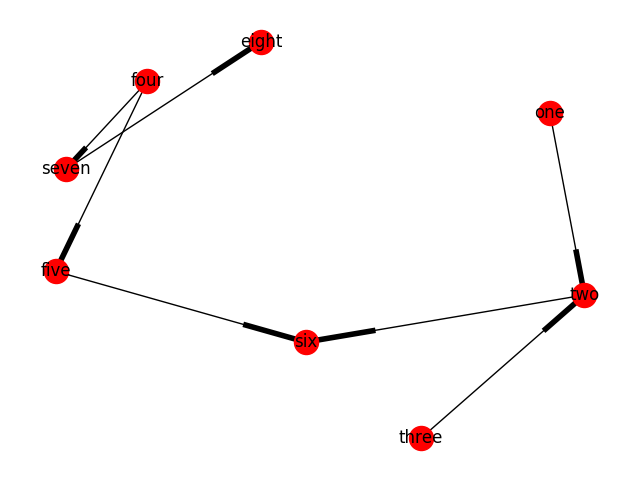
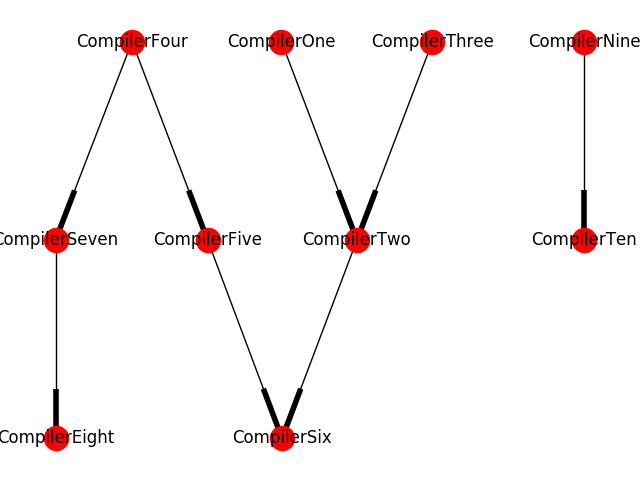
finish demonstration

diff --git a/graph_practice.py b/graph_practice.py
@@ -4,103 +4,103 @@ from networkx.drawing.nx_agraph import graphviz_layout
 
 
 class Compiler:
-    name = None
 
     def find_predecessors(self, graph):
-        return graph.predecessors(self.name)
+        return graph.predecessors(self)
 
     def find_sucessors(self, graph):
-        return graph.successors(self.name)
+        return graph.successors(self)
+
+    def compile(self):
+        print('compiled {}'.format(self.__class__.__name__))
 
 
 class CompilerOne(Compiler):
-    name = 'one'
-
-    def __init__(self):
-        self.requirements = []
+    @staticmethod
+    def requirements():
+        return []
 
 
 class CompilerTwo(Compiler):
-    name = 'two'
-
-    def __init__(self):
-        self.requirements = [CompilerOne, CompilerThree]
+    @staticmethod
+    def requirements():
+        return [CompilerOne, CompilerThree]
 
 
 class CompilerThree(Compiler):
-    name = 'three'
-
-    def __init__(self):
-        self.requirements = []
+    @staticmethod
+    def requirements():
+        return []
 
 
 class CompilerFour(Compiler):
-    name = 'four'
-
-    def __init__(self):
-        self.requirements = []
+    @staticmethod
+    def requirements():
+        return []
 
 
 class CompilerFive(Compiler):
-    name = 'five'
-
-    def __init__(self):
-        self.requirements = [CompilerFour]
+    @staticmethod
+    def requirements():
+        return [CompilerFour]
 
 
 class CompilerSix(Compiler):
-    name = 'six'
-
-    def __init__(self):
-        self.requirements = [CompilerTwo, CompilerFive]
+    @staticmethod
+    def requirements():
+        return [CompilerTwo, CompilerFive]
 
 
 class CompilerSeven(Compiler):
-    name = 'seven'
-
-    def __init__(self):
-        self.requirements = [CompilerFour]
+    @staticmethod
+    def requirements():
+        return [CompilerFour]
 
 
 class CompilerEight(Compiler):
-    name = 'eight'
-
-    def __init__(self):
-        self.requirements = [CompilerSeven]
+    @staticmethod
+    def requirements():
+        return [CompilerSeven]
 
 
 class CompilerNine(Compiler):
-    name = 'nine'
-
-    def __init__(self):
-        self.requirements = []
+    @staticmethod
+    def requirements():
+        return []
 
 
 class CompilerTen(Compiler):
-    name = 'ten'
+    @staticmethod
+    def requirements():
+        return [CompilerNine]
 
-    def __init__(self):
-        self.requirements = [CompilerNine]
 
-
-class Compile:
-    def __init__(self, field, graph):
-        self.field = field
+class CompileManager:
+    def __init__(self, fields, graph):
+        self.fields = fields
         self.graph = graph
 
-    def find_successors_tree(self):
-        return nx.algorithms.dfs_successors(self.graph, self.field)
+    # def find_successors_tree(self):
+    #     return nx.algorithms.dfs_successors(self.graph, self.field)
 
-    def find_subgraph_nodes(self):
+    def find_subgraph_nodes(self, field):
         sub_graphs = [x for x in nx.weakly_connected_components(self.graph)]
         for graph in sub_graphs:
-            if self.field in graph:
+            if field in graph:
                 return graph
         return None
 
     def sort_subgraph_nodes(self):
-        nodes = self.find_subgraph_nodes()
-        return nx.topological_sort(graph, nbunch=nodes)
+        recompile_nodes = set()
+        # Todo: optimisation here: if node already in set then assume entire sub-graph is
+        for field in self.fields:
+            nodes = self.find_subgraph_nodes(field)
+            recompile_nodes.update(nodes)
+        return nx.topological_sort(graph, nbunch=recompile_nodes)
+
+    def compile(self):
+        for node in self.sort_subgraph_nodes():
+            node().compile()
 
 
 def create_graph(compilers):
@@ -108,35 +108,36 @@ def create_graph(compilers):
     G = nx.DiGraph()
     # add nodes
 
-    for comp in compilers:
+    for compiler in compilers:
         # G.add_node(comp)
-        for requirement in comp.requirements:
-            G.add_edge(requirement.name, comp.name)
+        for requirement in compiler.requirements():
+            G.add_edge(requirement, compiler)
     return G
 
-compiler_mapping = dict(
-    comp1 = CompilerOne(),
-    comp2 = CompilerTwo(),
-    comp3 = CompilerThree(),
-    comp4 = CompilerFour(),
-    comp5 = CompilerFive(),
-    comp6 = CompilerSix(),
-    comp7 = CompilerSeven(),
-    comp8 = CompilerEight(),
-    comp9 = CompilerNine(),
-    comp10 = CompilerTen()
-)
-compilers = compiler_mapping.values()
+compilers = [
+    CompilerOne,
+    CompilerTwo,
+    CompilerThree,
+    CompilerFour,
+    CompilerFive,
+    CompilerSix,
+    CompilerSeven,
+    CompilerEight,
+    CompilerNine,
+    CompilerTen
+]
+
 
 graph = create_graph(compilers)
-compile_field = Compile(compiler_mapping['comp2'].name, graph)
+compile_field = CompileManager([CompilerOne], graph)
+compile_field.compile()
 
-# print(compiler_mapping['comp2'].find_predecessors(graph))
-print(compile_field.sort_subgraph_nodes())
-
+# print(nx.algorithms.dfs_successors(graph, CompilerFour))
 
 # pos = graphviz_layout(graph, prog='dot')
-# nx.draw(graph, with_labels=True)
+# # # nicer labels
+# labels = {v: v.__name__ for v in compilers}
+# nx.draw(graph, with_labels=True, pos=pos, labels=labels)
 # plt.savefig("path_graph1.png")
 # plt.show()
 
